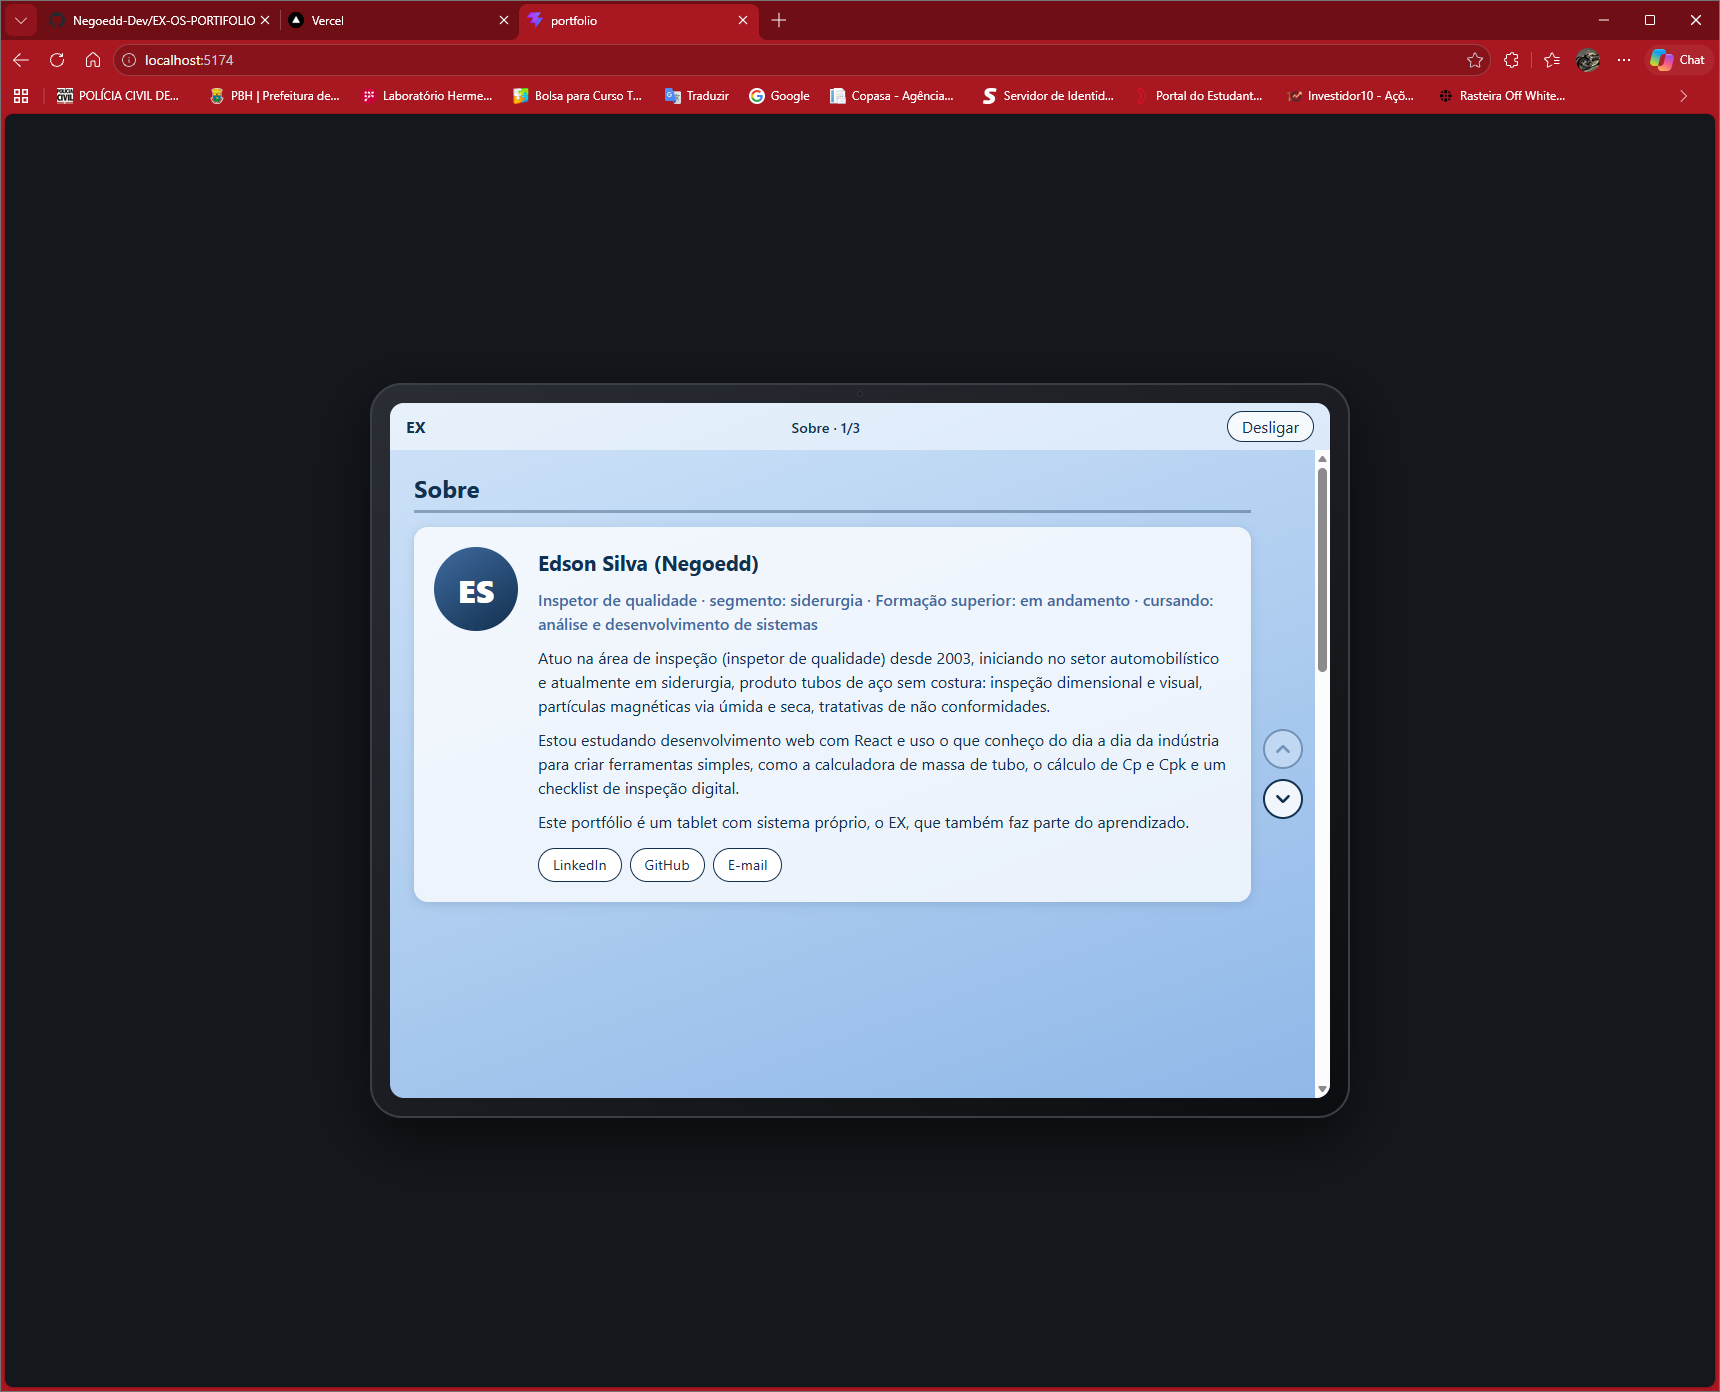
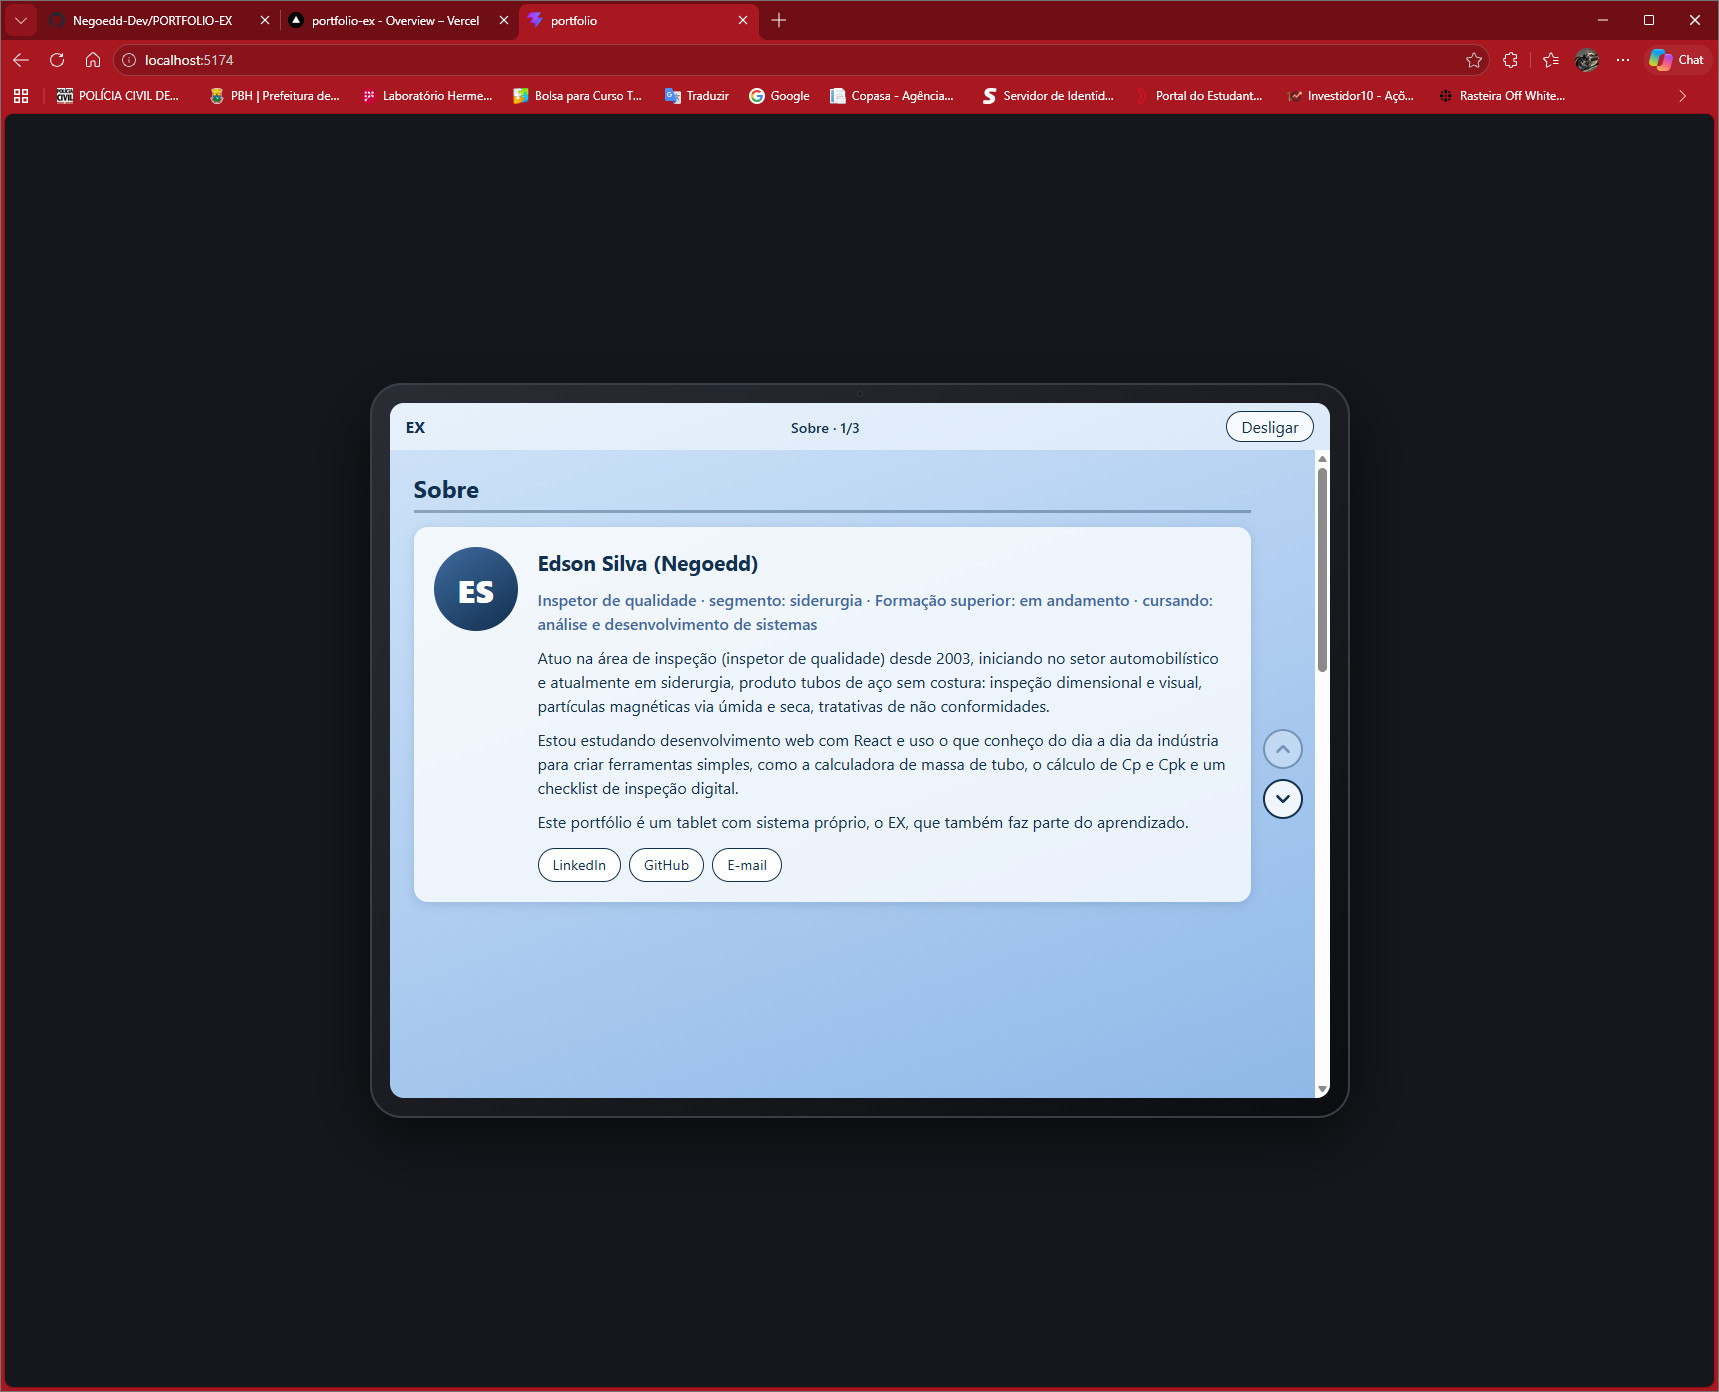
feat: preparando arquivos para subida do site.

diff --git a/conteudo.js b/conteudo.js
@@ -42,7 +42,7 @@ export const PROJETOS = [
       "Plataforma de dicas de produtividade (atalhos e fórmulas), com busca, filtro por programa, progresso de leitura, editor de dicas e um assistente de chat.",
     tecnologias: ["React", "Vite", "JavaScript", "CSS"],
     codigo: "https://github.com/Negoedd-Dev/ASSISTANT-5.git",
-    demo: "_(https://assistant-5-tawny.vercel.app/)_",
+    demo: "https://assistant-5-tawny.vercel.app/",
   },
   {
     nome: "Calculadora de massa de tubo",
@@ -66,14 +66,14 @@ export const PROJETOS = [
       "Checklist por etapas com resultado automático, apontamento de recorte com cálculo de massa e relatório para imprimir ou salvar em PDF.",
     tecnologias: ["React", "Vite", "JavaScript", "CSS"],
     codigo: "https://github.com/Negoedd-Dev/CHECKLIST_INSPECAO_DIGITAL.git",
-    demo: "(https://checklist-inspecao-digital-hazel.vercel.app/)",
+    demo: "https://checklist-inspecao-digital-hazel.vercel.app/",
   },
   {
     nome: "Portfólio EX",
     descricao:
       "Este portfólio: um tablet com sistema próprio, com tela de boot animada, login e seções em cards.",
-    tecnologias: ["React", "CSS"],
-    codigo: "https://github.com/Negoedd-Dev/EX-OS-PORTIFOLIO.git",
-    demo: "",
+    tecnologias: ["React", "Vite", "JavaScript", "CSS"],
+    codigo: "https://github.com/Negoedd-Dev/PORTFOLIO-EX.git",
+    demo: "https://portfolio-ex-henna-seven.vercel.app/",
   },
 ];

diff --git a/README.md b/README.md
@@ -4,7 +4,7 @@ Meu portfólio na forma de um tablet com sistema próprio, o **EX**: tela deslig
 
 ![Tela do projeto](docs/tela.png)
 
-**Demo:** _(preencha quando publicar)_
+**Demo:** _(https://portfolio-ex-henna-seven.vercel.app/)_
 
 ## Por que criei
 
@@ -30,7 +30,7 @@ Os textos e links ficam todos em `src/conteudo.js`. O nome do sistema e o login 
 Requisito: [Node.js](https://nodejs.org) 18 ou superior.
 
 ```bash
-git clone https://github.com/seu-usuario/portfolio-ex
+git clone https://github.com/Negoedd-Dev/portfolio-ex
 cd portfolio-ex
 npm install
 npm run dev
@@ -45,4 +45,4 @@ Sem o Git, baixe o ZIP pelo botão verde **Code** desta página.
 
 ## Autor
 
-Negoedd · [LinkedIn](https://www.linkedin.com/in/seu-perfil)
+Negoedd · [LinkedIn](https://www.linkedin.com/in/edson-nunes)
